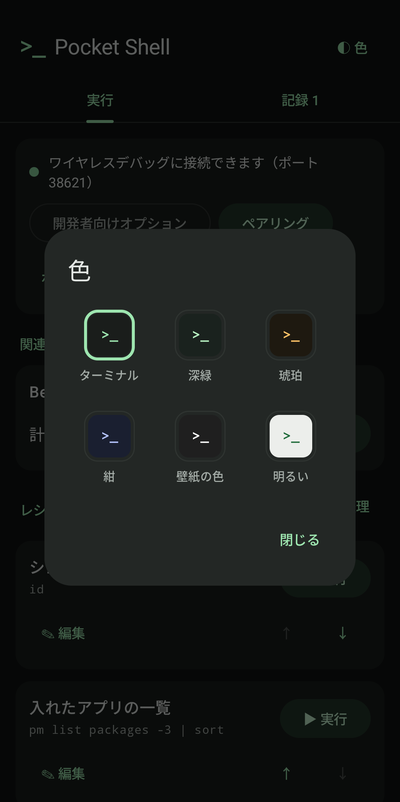
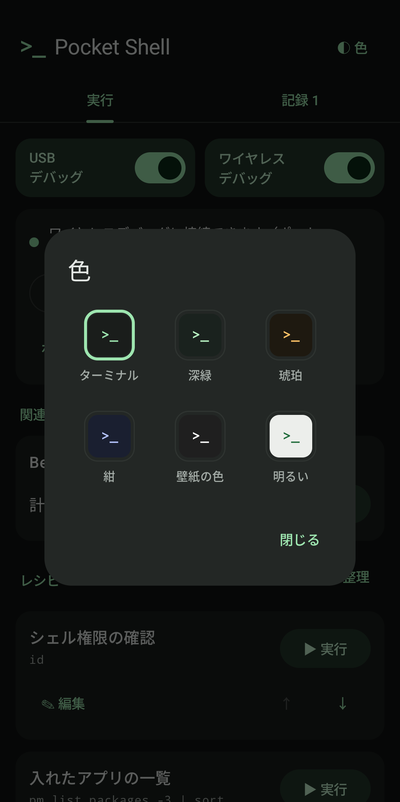
使い方に手順ごとのキャプチャを付け、ペアリングとスイッチの表示を直す
- docs/setup.md の各手順に、押す場所を赤枠で囲んだキャプチャを付ける（端末名・アドレスはぼかす）
- README のキャプチャの高さを揃え、動作確認の機種の一文を消す
- 許可が無いときもスイッチは本当の状態の色で見せ、押したら許可を付けるよう案内する
- ペアリングの待ち受けをアプリからやめられるようにし、失敗の通知に「ペアリング済みでも失敗する」ことを書く
- Android 17 の項目名「専用コードによるデバイスのペア設定」に合わせる

diff --git a/app/src/main/java/com/rou39/pocketshell/MainActivity.kt b/app/src/main/java/com/rou39/pocketshell/MainActivity.kt
@@ -6,6 +6,7 @@ import android.content.ClipboardManager
 import android.content.Intent
 import android.content.pm.PackageManager
 import android.os.Bundle
+import android.widget.Toast
 import android.provider.Settings
 import androidx.activity.ComponentActivity
 import androidx.activity.compose.setContent
@@ -501,11 +502,18 @@ class MainActivity : ComponentActivity() {
                             )
                             .toggleable(
                                 value = on,
-                                enabled = canToggle,
                                 role = Role.Switch,
                                 onValueChange = { v ->
-                                    DebugSettings.set(this@MainActivity, sw, v)
-                                    refreshSwitches()
+                                    if (canToggle) {
+                                        DebugSettings.set(this@MainActivity, sw, v)
+                                        refreshSwitches()
+                                    } else {
+                                        Toast.makeText(
+                                            this@MainActivity,
+                                            if (connected) "先に「スイッチで切り替えられるようにする」を押してください" else "先にワイヤレスデバッグでつないで、許可を付けてください",
+                                            Toast.LENGTH_SHORT,
+                                        ).show()
+                                    }
                                 },
                             )
                             .padding(start = 14.dp, end = 10.dp, top = 10.dp, bottom = 10.dp),
@@ -516,7 +524,8 @@ class MainActivity : ComponentActivity() {
                             color = if (on) MaterialTheme.colorScheme.onPrimaryContainer else MaterialTheme.colorScheme.onSurface,
                             modifier = Modifier.weight(1f),
                         )
-                        Switch(checked = on, onCheckedChange = null, enabled = canToggle)
+                        // 許可が無くても今の状態はそのままの色で見せる（灰色だとオフに見える）
+                        Switch(checked = on, onCheckedChange = null)
                     }
                 }
             }
@@ -570,15 +579,17 @@ class MainActivity : ComponentActivity() {
             pairingMessage(pairing)?.let { Note(it) }
             Row(horizontalArrangement = Arrangement.spacedBy(8.dp)) {
                 OutlinedButton(onClick = ::openDeveloperOptions) { Text("開発者向けオプション") }
-                FilledTonalButton(
-                    onClick = ::requestPairing,
-                    enabled = pairing !is PairingState.Searching && pairing !is PairingState.Ready && pairing !is PairingState.Pairing,
-                ) { Text("ペアリング") }
+                val waiting = pairing is PairingState.Searching || pairing is PairingState.Ready || pairing is PairingState.Pairing
+                if (waiting) {
+                    FilledTonalButton(onClick = { PairingService.cancel(this@MainActivity) }) { Text("ペアリングをやめる") }
+                } else {
+                    FilledTonalButton(onClick = ::requestPairing) { Text("ペアリング") }
+                }
             }
             if (!ready && !canToggle) {
                 Note(
                     "ペアリングは最初の1回だけ。「ペアリング」を押すと設定が開くので、「ワイヤレスデバッグ」→" +
-                        "「ペア設定コードによるデバイスのペア設定」を開きます。コードのダイアログは開いたまま、" +
+                        "「専用コード（ペア設定コード）によるデバイスのペア設定」を開きます。コードのダイアログは開いたまま、" +
                         "画面の上から通知欄を下ろし、Pocket Shell の通知の「コードを入力」に6桁を入れます。",
                 )
             }
@@ -598,7 +609,7 @@ class MainActivity : ComponentActivity() {
 
     private fun pairingMessage(s: PairingState): String? = when (s) {
         PairingState.Idle -> null
-        PairingState.Searching -> "ペアリング: 「ペア設定コードによるデバイスのペア設定」を開いてください"
+        PairingState.Searching -> "ペアリング: 「専用コード（ペア設定コード）によるデバイスのペア設定」を開いてください"
         is PairingState.Ready -> "ペアリング: 通知にコードを入力してください"
         PairingState.Pairing -> "ペアリング: 確認しています…"
         PairingState.Done -> "ペアリング済み"

diff --git a/app/src/main/java/com/rou39/pocketshell/pairing/PairingService.kt b/app/src/main/java/com/rou39/pocketshell/pairing/PairingService.kt
@@ -29,7 +29,7 @@ import kotlinx.coroutines.launch
 sealed interface PairingState {
     data object Idle : PairingState
 
-    /** 「ペア設定コードによるデバイスのペア設定」の画面が開くのを待っている。 */
+    /** 「専用コード（ペア設定コード）によるデバイスのペア設定」の画面が開くのを待っている（Android 17 は「専用コード」、それより前は「ペア設定コード」）。 */
     data object Searching : PairingState
 
     /** 画面が開いた。通知からコードを入力できる。 */
@@ -96,7 +96,12 @@ class PairingService : Service() {
                 .onSuccess { finish(PairingState.Done) }
                 .onFailure { e ->
                     // コードの打ち間違いはよくあるので、待ち受けは続けてやり直せるようにする
-                    update(PairingState.Failed("ペアリングできませんでした: ${AdbShell.describe(e)}"))
+                    update(
+                        PairingState.Failed(
+                            "ペアリングできませんでした: ${AdbShell.describe(e)}。" +
+                                "すでにペアリング済みのときも失敗します（アプリに「接続できます」と出ていれば不要です）",
+                        ),
+                    )
                     delay(RETRY_DELAY_MS)
                     discovery?.port?.value?.let { update(PairingState.Ready(it)) } ?: update(PairingState.Searching)
                 }
@@ -138,7 +143,7 @@ class PairingService : Service() {
         if (state.value !is PairingState.Searching && state.value !is PairingState.Ready) builder.setContentIntent(open)
         when (val s = state.value) {
             PairingState.Searching -> builder
-                .setContentText("「ワイヤレスデバッグ」→「ペア設定コードによるデバイスのペア設定」を開いてください")
+                .setContentText("「ワイヤレスデバッグ」→「専用コード（ペア設定コード）によるデバイスのペア設定」を開いてください")
                 .setOngoing(true)
                 .addAction(cancelAction())
             is PairingState.Ready -> {
@@ -203,6 +208,12 @@ class PairingService : Service() {
 
         fun start(context: Context) {
             context.startForegroundService(Intent(context, PairingService::class.java))
+        }
+
+        /** 待ち受けをやめる（アプリの「ペアリングをやめる」から）。 */
+        fun cancel(context: Context) {
+            if (state.value is PairingState.Idle) return
+            context.startService(Intent(context, PairingService::class.java).setAction(ACTION_CANCEL))
         }
     }
 }

diff --git a/app/src/main/java/com/rou39/pocketshell/adb/AdbDiscovery.kt b/app/src/main/java/com/rou39/pocketshell/adb/AdbDiscovery.kt
@@ -17,7 +17,7 @@ import java.util.concurrent.Executors
  */
 class AdbDiscovery(context: Context, private val kind: Kind) {
     enum class Kind(val serviceType: String) {
-        /** 「ペア設定コードによるデバイスのペア設定」を開いている間だけ出る。 */
+        /** ペア設定のダイアログ（専用コード／ペア設定コード）を開いている間だけ出る。 */
         PAIRING("_adb-tls-pairing._tcp"),
 
         /** ワイヤレスデバッグがオンの間ずっと出る。コマンドの実行はこちらへつなぐ。 */

diff --git a/docs/setup.md b/docs/setup.md
@@ -1,47 +1,74 @@
 # Pocket Shell の使い方
 
-[README](../README.md) の続きです。入れたあと、使えるようになるまでの手順をまとめます。
+[README](../README.md) の続きです。入れたあと、使えるようになるまでの手順です。赤枠が押す場所です。
 
 ## 1. 開発者向けオプションを出す
 
-1. Android の設定 → デバイス情報 を開きます。
-2. 「ビルド番号」を7回続けて押します。「デベロッパーになりました」と出れば完了です。
+Android の設定 → デバイス情報 を開き、「ビルド番号」を7回続けて押します。「デベロッパーになりました」と出れば完了です。
+
+<img src="images/setup/01-build-number.png" width="320" alt="デバイス情報のビルド番号">
 
 ## 2. ワイヤレスデバッグをオンにする
 
-1. Pocket Shell を開き、「ローカルネットワーク」の許可を求められたら「許可する」を押します。スマホの中のワイヤレスデバッグを探すのに使います。
-2. 「開発者向けオプション」を押し、「ワイヤレスデバッグ」をオンにします。Wi-Fi につながっている必要があります。
+Pocket Shell の「開発者向けオプション」を押し、「ワイヤレス デバッグ」をオンにします。Wi-Fi につながっている必要があります。
 
-ワイヤレスデバッグは、スマホを再起動するとオフに戻ります。
+<img src="images/setup/02-wireless-debugging.png" width="320" alt="開発者向けオプションのワイヤレスデバッグ">
+
+最初に「ローカルネットワーク」の許可を求められたら「許可する」を押してください。スマホの中のワイヤレスデバッグを探すのに使います。
 
 ## 3. ペアリングする（最初の1回だけ）
 
-1. Pocket Shell の「ペアリング」を押すと、設定が開きます。
-2. 「ワイヤレスデバッグ」→「ペア設定コードによるデバイスのペア設定」を開きます。6桁のコードが出ます。
-3. コードの画面は**開いたまま**、画面の上から通知欄を下ろします。
-4. Pocket Shell の通知の「コードを入力」に、その6桁を入れます。
-5. 「ペアリングしました」と出たら完了です。Pocket Shell に戻ります。
+1. Pocket Shell の「ペアリング」を押します。設定が開きます。
+2. 「ワイヤレス デバッグ」の画面を開き、「専用コードによるデバイスのペア設定」を押します（Android 16 までは「ペア設定コードによるデバイスのペア設定」）。6桁のコードが出ます。
+3. コードの画面は**開いたまま**、画面の上から通知欄を下ろします。Pocket Shell の通知の「コードを入力」を押し、6桁を入れて送ります。
+
+<table>
+  <tr>
+    <td align="center"><img src="images/setup/03-pairing-button.png" width="240" alt="ペアリングのボタン"><br>1. ペアリング</td>
+    <td align="center"><img src="images/setup/04-pair-menu.png" width="240" alt="コードによるペア設定"><br>2. コードでペア設定</td>
+    <td align="center"><img src="images/setup/05-code-dialog.png" width="240" alt="6桁のコード"><br>6桁のコード</td>
+  </tr>
+</table>
+
+<img src="images/setup/06-notification.png" width="320" alt="通知のコードを入力"><br>
+<img src="images/setup/06b-enter-code.png" width="320" alt="コードを入れて送る">
+
+「ペアリングしました」と出たら完了です。すでにペアリング済みのときは失敗しますが、「接続できます」と出ていればそのまま使えます。
 
 ## 4. コマンドを実行する
 
-- 「実行」のタブに「ワイヤレスデバッグに接続できます」と出ていれば準備完了です。
-- レシピの「▶ 実行」を押すと、「記録」のタブに結果が出ます。
-- 「＋ レシピを追加」で、よく使うコマンドを名前を付けて登録できます。その場で打ったコマンドも「レシピにする」で残せます。
+レシピの「▶ 実行」を押すと、「記録」のタブに結果が出ます。
+
+<table>
+  <tr>
+    <td align="center"><img src="images/setup/07-run-recipe.png" width="240" alt="レシピの実行"><br>実行</td>
+    <td align="center"><img src="images/setup/08-log.png" width="240" alt="実行の結果"><br>結果</td>
+  </tr>
+</table>
+
+- 「＋ レシピを追加」で、よく使うコマンドを登録できます。その場で打ったコマンドも「レシピにする」で残せます。
 - レシピの「整理」から、最初の例に戻すことも、すべて削除することもできます。
 
 ## 5. スイッチで切り替えられるようにする（任意）
 
-「実行」のタブの一番上にある「USB デバッグ」「ワイヤレスデバッグ」のスイッチで、開発者向けオプションを開かずにオンオフできます。
+一度つながったら「スイッチで切り替えられるようにする」を押します。これで、一番上のスイッチで USB デバッグ・ワイヤレスデバッグを切り替えられます。許可は再起動しても残ります。
 
-使えるようにするには、一度つながったときに「スイッチで切り替えられるようにする」を押します。Pocket Shell が自分に設定を切り替える許可を付け、許可は再起動しても残ります。
+<table>
+  <tr>
+    <td align="center"><img src="images/setup/09-switch-grant.png" width="240" alt="スイッチの許可"><br>許可を付ける</td>
+    <td align="center"><img src="images/setup/09b-switches.png" width="240" alt="スイッチ"><br>スイッチで切り替え</td>
+  </tr>
+</table>
 
-- 再起動でワイヤレスデバッグがオフになっても、スイッチでオンにできます。使い終わったらオフにしておくと安心です。
+- 再起動でワイヤレスデバッグがオフになっても、スイッチでオンにできます。
 - 初めてつなぐ Wi-Fi では、開発者向けオプションから一度オンにしてください。
 - USB デバッグをオフにすると、パソコンからの adb はつながらなくなります。
 
 ## つながらないとき
 
 「ポートを手で入れる」から、ワイヤレスデバッグの画面に出ている「IP アドレスとポート」のコロンの後ろの数字を入れてください。
+
+<img src="images/setup/10-manual-port.png" width="320" alt="ポートを手で入れる">
 
 ## プライバシー
 

diff --git a/README.md b/README.md
@@ -36,7 +36,7 @@
 
 Google Play を通していないので、Play プロテクトやウイルス対策アプリが警告を出すことがあります。
 
-動作環境は Android 14 以降で、Wi-Fi への接続が必要です。作者の Pixel（Android 17）で確かめています。
+動作環境は Android 14 以降で、Wi-Fi への接続が必要です。
 
 ## 資料
 
